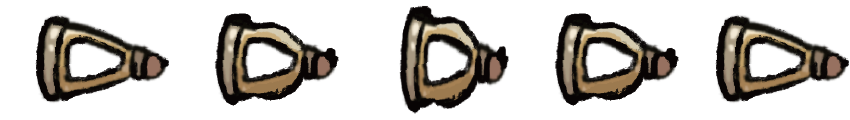
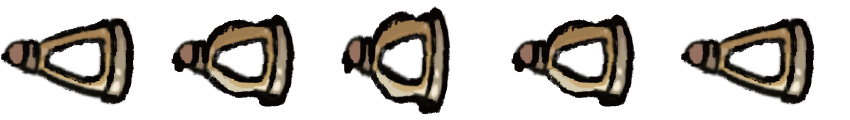
Fixed Shooting
- Simplified logic by flipping the sprites first so that you do not need to flip the bullet origin

diff --git a/Assets/Scripts/Player Scripts/Player.cs b/Assets/Scripts/Player Scripts/Player.cs
@@ -194,24 +194,16 @@ public class Player : MonoBehaviour, IDamageable
     void PlayerInputs()
     {
         Vector3 mousePos = Camera.main.ScreenToWorldPoint(Mouse.current.position.ReadValue());
-        mousePos.z = armPivot.transform.position.z;
-        Vector3 difference = armPivot.transform.position - mousePos;
-        Vector3 scale = playerTransform.localScale;
+        mousePos.z = 0f;
+        Vector3 scale = transform.localScale;
+        scale.x = mousePos.x < transform.position.x ? -1 : 1;
+        transform.localScale = scale;
 
-        bulletOrigin.right = difference;
-        if ((armPivot.transform.position - mousePos).x > 0)
-        {
-            armPivot.right = difference;
-            scale.x = 1; // Flip horizontally
-            playerTransform.localScale = scale;
-            
-        }
-        else if ((armPivot.transform.position - mousePos).x < 0)
-        {
-            armPivot.right = -difference;
-            scale.x = -1; // Flip horizontally
-            playerTransform.localScale = scale;
-        }
+        Vector3 aimDir = (mousePos - armPivot.position);
+        aimDir.z = 0;
+        aimDir.Normalize();
+        armPivot.right = aimDir;
+
 
         float horizontal = Input.GetAxisRaw("Horizontal");
         float vertical = Input.GetAxisRaw("Vertical");
